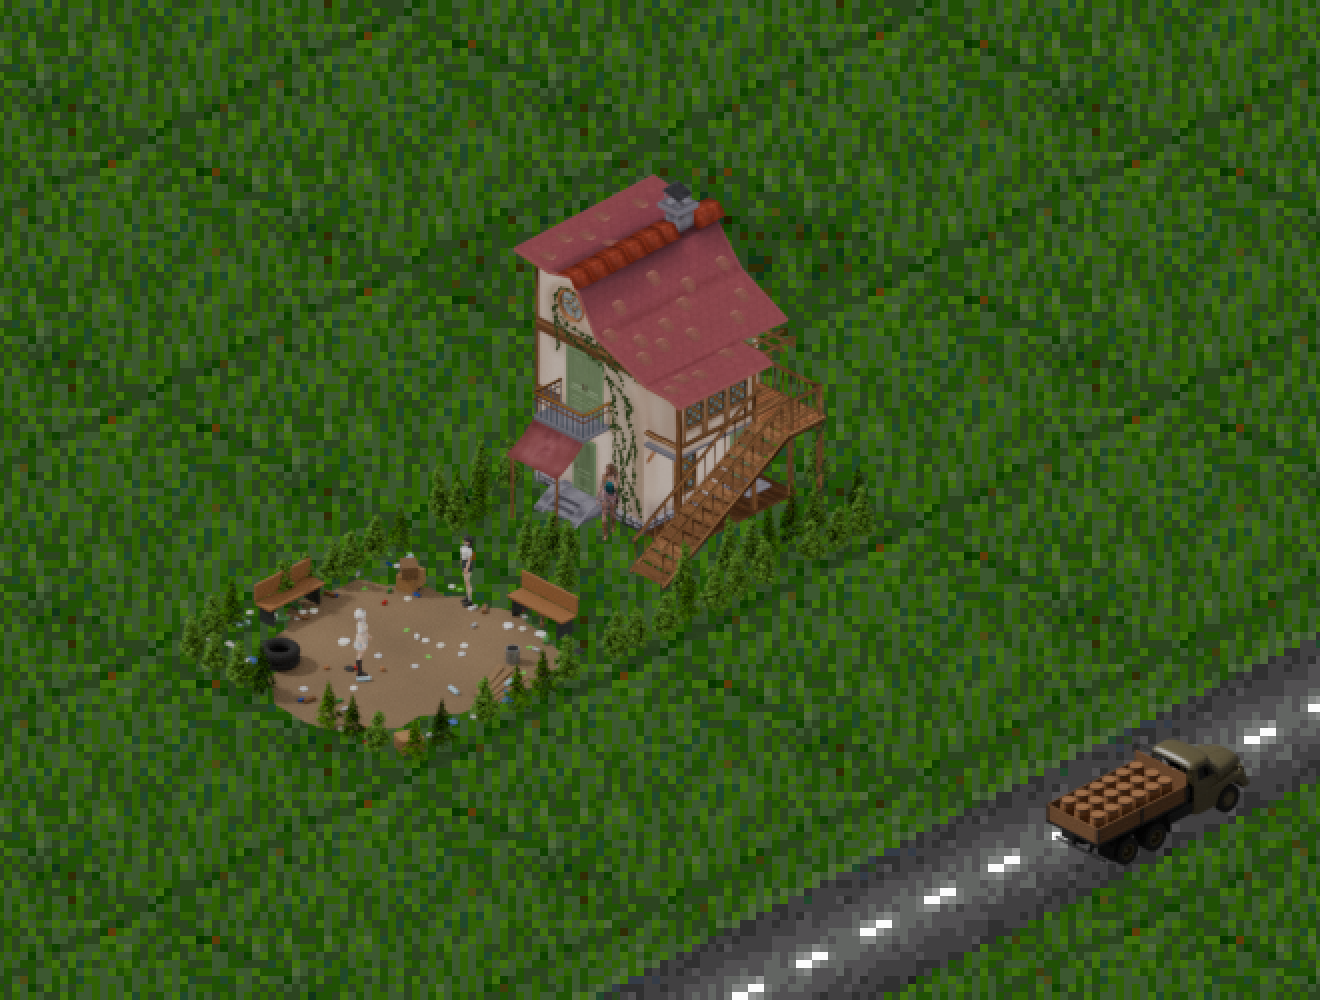
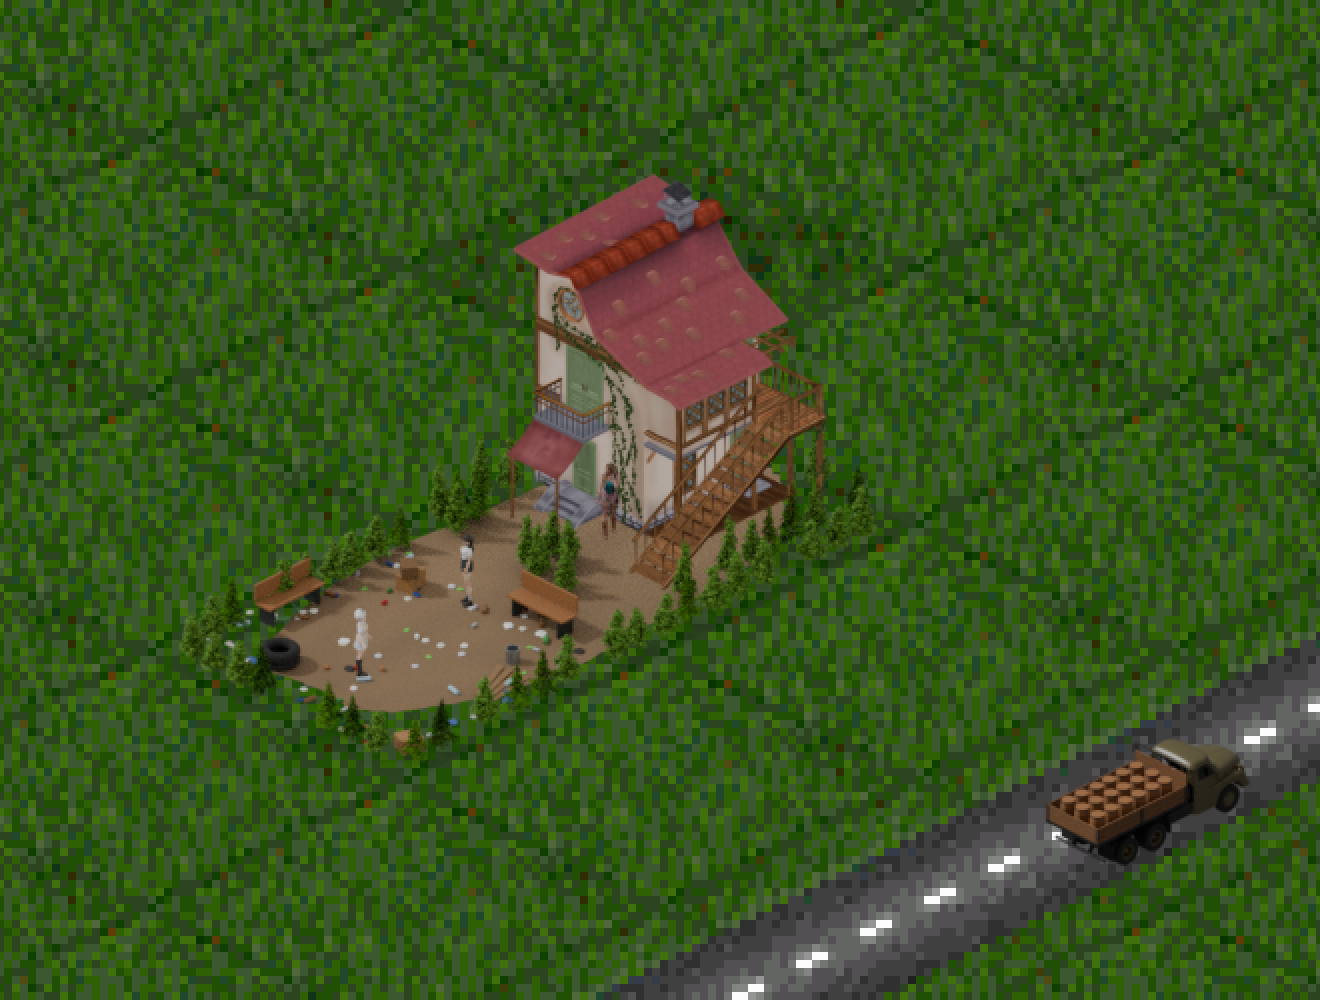
Chatka: uslapana hlina pres oba policka az k domku, odpadky jen na dvorku
Hrac: "roztahni ten povrch na kterem stoji holky az na policko kde stoji
dum ale odpadky uz nedavej dalsi". Misto elipsy na dvorku je hlina jeden
zvlneny kus (superelipsa) pres cele dva policka, kolem plotu a v rozich
zustava trava. Holka u zdi stoji na hline (z 0,012 jako ostatni).
Odpadky beze zmeny. Rohy, velikost obrazku a JSON stejne jako minule.

Claude-Session: https://claude.ai/code/session_01P6zYdmMEQjTTZJyV6Qb8Ch

Changed region(s): [[0.2485, 0.465, 0.5902, 0.682], [0.1864, 0.651, 0.3727, 0.744], [0.2174, 0.589, 0.2485, 0.62]]

diff --git a/chatka/render_chatka.py b/chatka/render_chatka.py
@@ -156,17 +156,24 @@ print("holka u zdi", tuple(round(v, 2) for v in U_ZDI), flush=True)
 
 # ---------------------------------------------------------------- dvorek: uslapana zem, lavicky, neporadek
 X0 = T                                           # dvorek: x T az 2T, y 0 az T
-# uslapana hlina: nepravidelna placka na dvorku (kolem lavicek, k dverim a k dire v plotu)
+# uslapana hlina: nepravidelna placka pres dvorek az na policko s domkem (do 3. 10. jen elipsa na dvorku; hrac:
+# "roztahni ten povrch na kterem stoji holky az na policko kde stoji dum ale odpadky uz nedavej dalsi"). Tvar je
+# zaobleny obdelnik pres oba policka (superelipsa), kraj zvlneny dovnitr; pod plotem a v rozich zustava trava.
+# Odpadky se nemeni, jsou dal jen na dvorku.
 def placka(m, body, z=0.012):
     bm = bm_pro(m)
     v = [bm.verts.new(B(x, y, z)) for x, y in body]
     bm.faces.new(v)
 rnd_z = random.Random(5)
+H_X0, H_X1, H_Y0, H_Y1 = 0.6, 2 * T - 1.7, 0.7, T - 1.7      # kam az hlina saha (x podel obou policek, y napric)
+hcx, hcy, hax, hay = (H_X0 + H_X1) / 2, (H_Y0 + H_Y1) / 2, (H_X1 - H_X0) / 2, (H_Y1 - H_Y0) / 2
 obrys = []
-for k in range(40):
-    a = 2 * math.pi * k / 40
-    r = 1.0 + 0.12 * math.sin(3 * a + 1.0) + 0.06 * rnd_z.uniform(-1, 1)
-    obrys.append((X0 + T * 0.5 + math.cos(a) * T * 0.40 * r, T * 0.5 + math.sin(a) * T * 0.38 * r))
+for k in range(120):
+    a = 2 * math.pi * k / 120
+    c, s_ = math.cos(a), math.sin(a)
+    r = (abs(c) ** 2.6 + abs(s_) ** 2.6) ** (-1 / 2.6)
+    r *= 1.0 - 0.05 * (1 + math.sin(3 * a + 1.0)) / 2 - 0.04 * (1 + math.sin(7 * a + 2.0)) / 2 - 0.02 * rnd_z.random()
+    obrys.append((hcx + c * hax * r, hcy + s_ * hay * r))
 placka(M["hlina"], obrys)
 
 def lavicka(x, y, uhel):
@@ -328,7 +335,7 @@ STOJICI, SEDICI = [], []
 cg = PO.nacti_stojici("college_girl", 1.62, "ruce_dolu")
 do_sceny(cg, Vector((0, 0, 0)), X0 + 2.6, 6.2, 0.012, math.radians(-35)); STOJICI += cg
 ch = PO.nacti_stojici("character_people_girl_001", 1.68)
-do_sceny(ch, Vector((0, 0, 0)), U_ZDI[0], U_ZDI[1], 0.0, math.radians(45)); STOJICI += ch
+do_sceny(ch, Vector((0, 0, 0)), U_ZDI[0], U_ZDI[1], 0.012, math.radians(45)); STOJICI += ch      # na hline
 ga_st = PO.nacti_stojici("galaxia_anime_girl", 1.58, "ruce_dolu")
 do_sceny(ga_st, Vector((0, 0, 0)), X0 + 9.8, 7.4, 0.012, math.radians(120)); STOJICI += ga_st
 # sedici: College Girl a Character Girl na lavicce u domku, Galaxia na druhe (zapadni), vsechny celem od operadla

diff --git a/chatka/README.md b/chatka/README.md
@@ -16,9 +16,11 @@ to být přes dvě políčka nebo přes čtyři políčka, to je jedno. ale holk
 - **Kytky kolem domku:** 19 vyšších rostlin marihuany (stejné jako v plotu, skutečně 1,1 až 1,7 m, na obrázku dvakrát
   větší) na uvolněném místě před jihozápadní a jihovýchodní stranou domku. Za domkem nejsou, nestojí na cestě od
   schůdků ke dveřím ani od paty schodů na balkon a nezakrývají holku u zdi.
-- **Dvorek** (přední políčko): ušlapaná hlína, dvě lavičky jako u sochy (dvakrát větší), nepořádek: dvě bedny na sobě,
-  převrhlá bedna, hromada prken, dvě pneumatiky, kyblík a asi sto odpadků (papíry, plechovky, lahve, kelímky, sáčky,
-  zelené balíčky).
+- **Ušlapaná hlína** vede přes celý dvorek až k domku na zadním políčku (kytky kolem domku v ní stojí). Kolem plotu
+  a v rozích pozemku zůstává tráva.
+- **Dvorek** (přední políčko): dvě lavičky jako u sochy (dvakrát větší), nepořádek: dvě bedny na sobě, převrhlá
+  bedna, hromada prken, dvě pneumatiky, kyblík a asi sto odpadků (papíry, plechovky, lahve, kelímky, sáčky, zelené
+  balíčky). Odpadky jsou jen na dvorku.
 - **Plot:** 31 nízkých rostlin marihuany místo plotu (Cannabis Sativa plant a Cannabis Plant jako u sochy, skutečně
   1 až 1,3 m, na obrázku dvakrát větší) podél přední pravé hrany celého pozemku a kolem dvorku. Sem tam je díra,
   vlevo široká jako branka k dveřím.
@@ -98,3 +100,13 @@ holka splývá se zdí“*.
 - Galaxia stojí na jejím místě u branky, na hnědé hlíně nesplývá.
 - Změnilo se všechno: obrázek s domkem je nižší (400 × 320 místo 400 × 360, v 8× 800 × 640), rohy v JSONu jsou jinde
   (o 40 px výš ve 4×) a obě vrstvy s holkami jsou nové.
+
+## Hlína až k domku (3. 10.)
+
+Hráč: *„roztáhni ten povrch na kterém stojí holky až na políčko kde stojí dům ale odpadky už nedávej další“*.
+
+- Ušlapaná hlína byla jen elipsa na dvorku, teď je to jeden zvlněný kus přes oba políčka až k domku. Holka u zdi
+  domku a kytky kolem domku stojí na hlíně.
+- Odpadky se nezměnily, žádné nepřibyly, jsou dál jen na dvorku.
+- Změnily se všechny obrázky (holky ve vrstvách mají od hnědé hlíny o chlup teplejší odraz světla), rohy, velikost
+  a `holky_obdelnik` v JSONu jsou stejné jako s menším domkem.

diff --git a/hra/zarovnani-budov/ODPOVED-PRO-HRU.md b/hra/zarovnani-budov/ODPOVED-PRO-HRU.md
@@ -205,3 +205,10 @@ posunem směrem od lavičky na ušetřené místo. ke zdi dej jinou ne tu colege
 - Domek je zmenšený na tři čtvrtiny a stojí v severním rohu zadního políčka, kolem něj vpředu jsou rostliny
   marihuany. U zdi domku stojí holka v tyrkysovém tílku (Character Girl), Galaxia je místo ní u branky.
 - `holky_obdelnik` ve 4×: stojící [110, 150, 245, 259], sedící [75, 194, 219, 241]. Nic nepřečuhuje.
+
+## Chatka: hlína až k domku (3. 10.)
+
+Hráč: *„roztáhni ten povrch na kterém stojí holky až na políčko kde stojí dům ale odpadky už nedávej další“*.
+
+- Ušlapaná hlína teď vede z dvorku až k domku. Změnilo se zase všech šest obrázků chatky (4× i 8×), prosím rozkrájet
+  znovu. Rohy, velikost obrázků i JSON jsou stejné jako v předchozí verzi s menším domkem.
